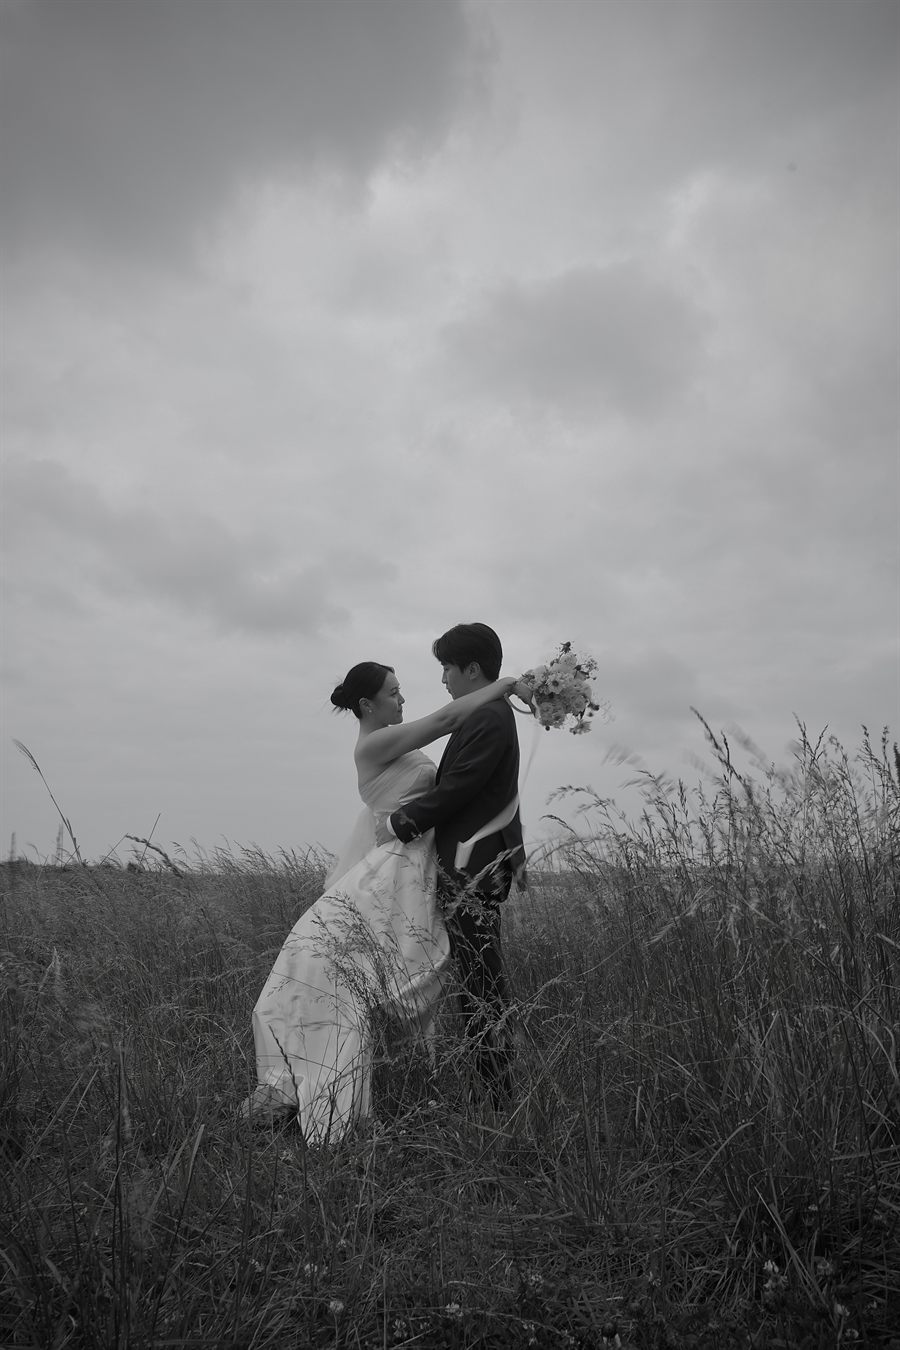
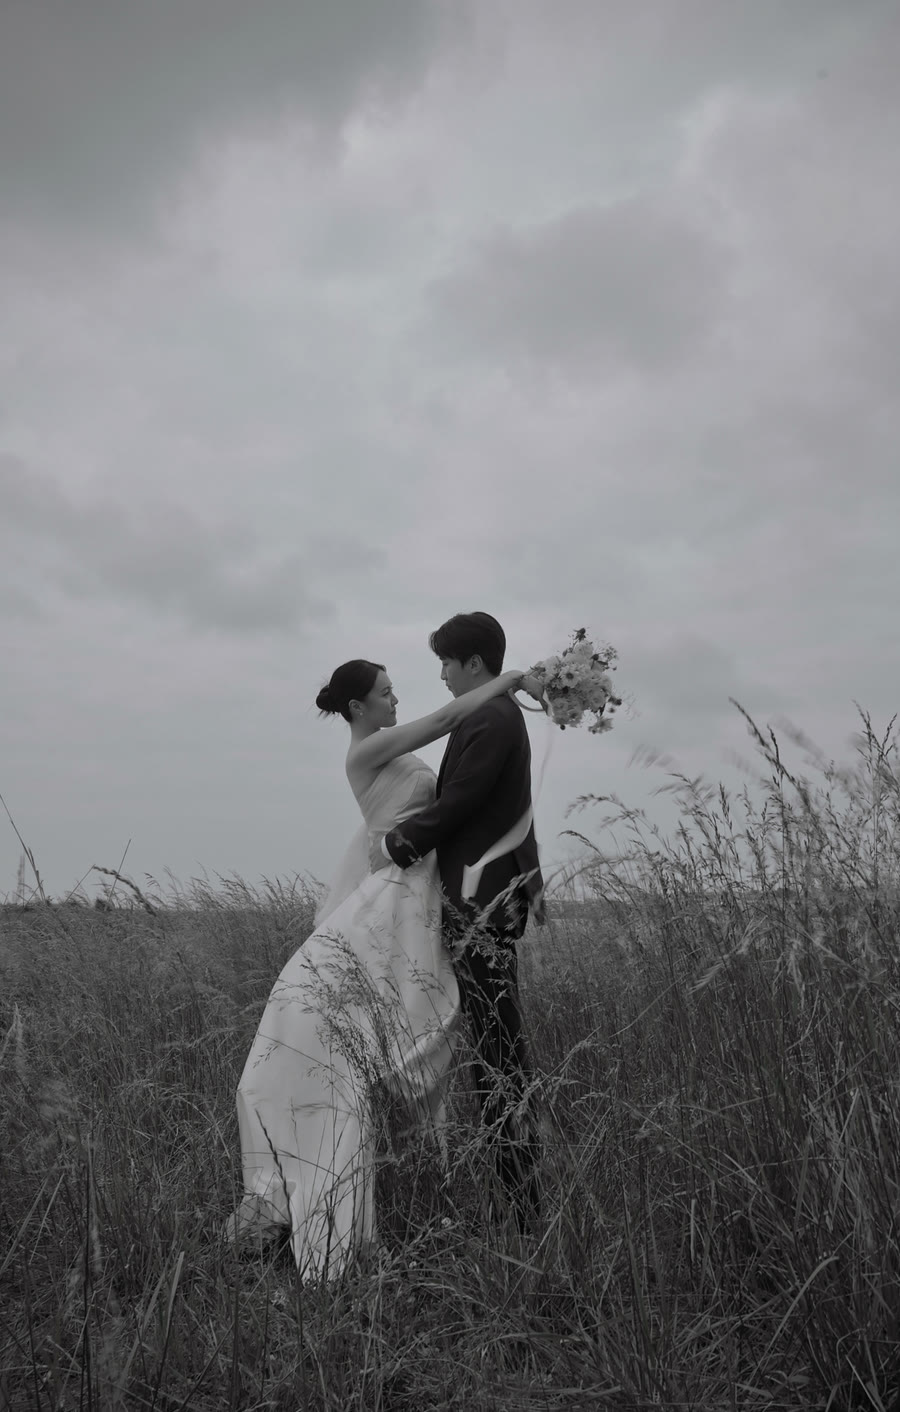
no message

diff --git a/index.html b/index.html
@@ -18,7 +18,7 @@
 <meta property="og:type"        content="website">
 <meta property="og:site_name"   content="황지원 · 최정훈 결혼합니다">
 <meta property="og:title"       content="황지원 · 최정훈 결혼합니다">
-<meta property="og:description" content="2026년 11월 14일 토요일 오후 1시 50분 · 상주 마리앙스 웨딩컨벤션">
+<meta property="og:description" content="2026년 11월 14일 토요일 오후 2시 · 상주 마리앙스 웨딩컨벤션">
 <meta property="og:url"         content="https://vargattasku.github.io/thisiswd/">
 <meta property="og:image"       content="https://vargattasku.github.io/thisiswd/image/og-card.png">
 <meta property="og:image:width"  content="2400">
@@ -26,7 +26,7 @@
 <meta property="og:image:alt"   content="jiwon &amp; jeonghun · 2026.11.14">
 <meta property="og:locale"      content="ko_KR">
 <meta name="twitter:card"       content="summary_large_image">
-<meta name="description"        content="2026년 11월 14일 토요일 오후 1시 50분, 상주 마리앙스 웨딩컨벤션에서 황지원 · 최정훈이 결혼합니다.">
+<meta name="description"        content="2026년 11월 14일 토요일 오후 2시, 상주 마리앙스 웨딩컨벤션에서 황지원 · 최정훈이 결혼합니다.">
 
 <!-- ============================================================
      [ 수정 가이드 ]
@@ -269,6 +269,7 @@ body{
   letter-spacing:.30em;
   text-indent:.30em;
   opacity:.55;
+  font-weight: 400;
 }
 .cd-nums{
   margin-top:clamp(11px,3.2vw,15px);
@@ -299,7 +300,7 @@ body{
   padding-top:4px;      /* 숫자 높이 가운데에 오도록 */
 }
 .cd-kr{
-  margin-top:clamp(30px,3.4vw,16px);
+  margin-top:clamp(20px,3.4vw,16px);
   font-family:var(--kr);
   font-size:11.5px;
   font-weight:400;
@@ -621,7 +622,7 @@ body{
 .cupid{
   position:relative;
   display:inline-block;
-  margin:20px 0;
+  margin:30px 0;
   line-height:0;
 }
 .cupid-img{ height:110px; width:auto; display:block; }
@@ -1065,7 +1066,7 @@ body{
     <div class="intro">
       <p class="intro-names reveal">황지원<span class="amp">·</span>최정훈</p>
       <span class="intro-rule reveal"></span>
-      <p class="intro-date reveal">2026년 11월 14일<span class="dot">·</span>토요일 오후 1시 50분</p>
+      <p class="intro-date reveal">2026년 11월 14일<span class="dot">·</span>토요일 오후 2시</p>
       <p class="intro-place reveal">
         상주 마리앙스 웨딩컨벤션
       </p>
@@ -1100,7 +1101,7 @@ body{
     </div>
 
     <!-- 예식까지 남은 시간 : data-target 의 날짜·시각만 고치면 된다 (한국 시간 기준) -->
-    <div class="countdown wipe d2" id="countdown" data-target="2026-11-14T12:00:00+09:00">
+    <div class="countdown wipe d2" id="countdown" data-target="2026-11-14T14:00:00+09:00">
       <p class="cd-label">COUNTING DOWN</p>
       <div class="cd-nums">
         <span class="cd-unit"><b data-cd="d" style="font-weight: 400">--</b><span>DAYS</span></span>
@@ -1177,7 +1178,7 @@ body{
 
         <span class="d sun">29</span><span class="d">30</span>
       </div>
-      <p class="cal-note"><strong>2026년 11월 14일 토요일 오후 1시 50분</strong></p>
+      <p class="cal-note"><strong>2026년 11월 14일 토요일 오후 2시</strong></p>
     </div>
 
     <span class="sec-rule"></span>
@@ -1613,7 +1614,7 @@ if(galleryEl && lb){
           objectType:'feed',
           content:{
             title:'황지원 · 최정훈 결혼합니다',
-            description:'2026년 11월 14일 토요일 오후 1시 50분\n상주 마리앙스 웨딩컨벤션',
+            description:'2026년 11월 14일 토요일 오후 2시\n상주 마리앙스 웨딩컨벤션',
             imageUrl: url + 'image/og-card.png',    /* 카톡이 읽어야 하므로 반드시 절대 https 주소 */
             link:{ mobileWebUrl:url, webUrl:url }
           },
